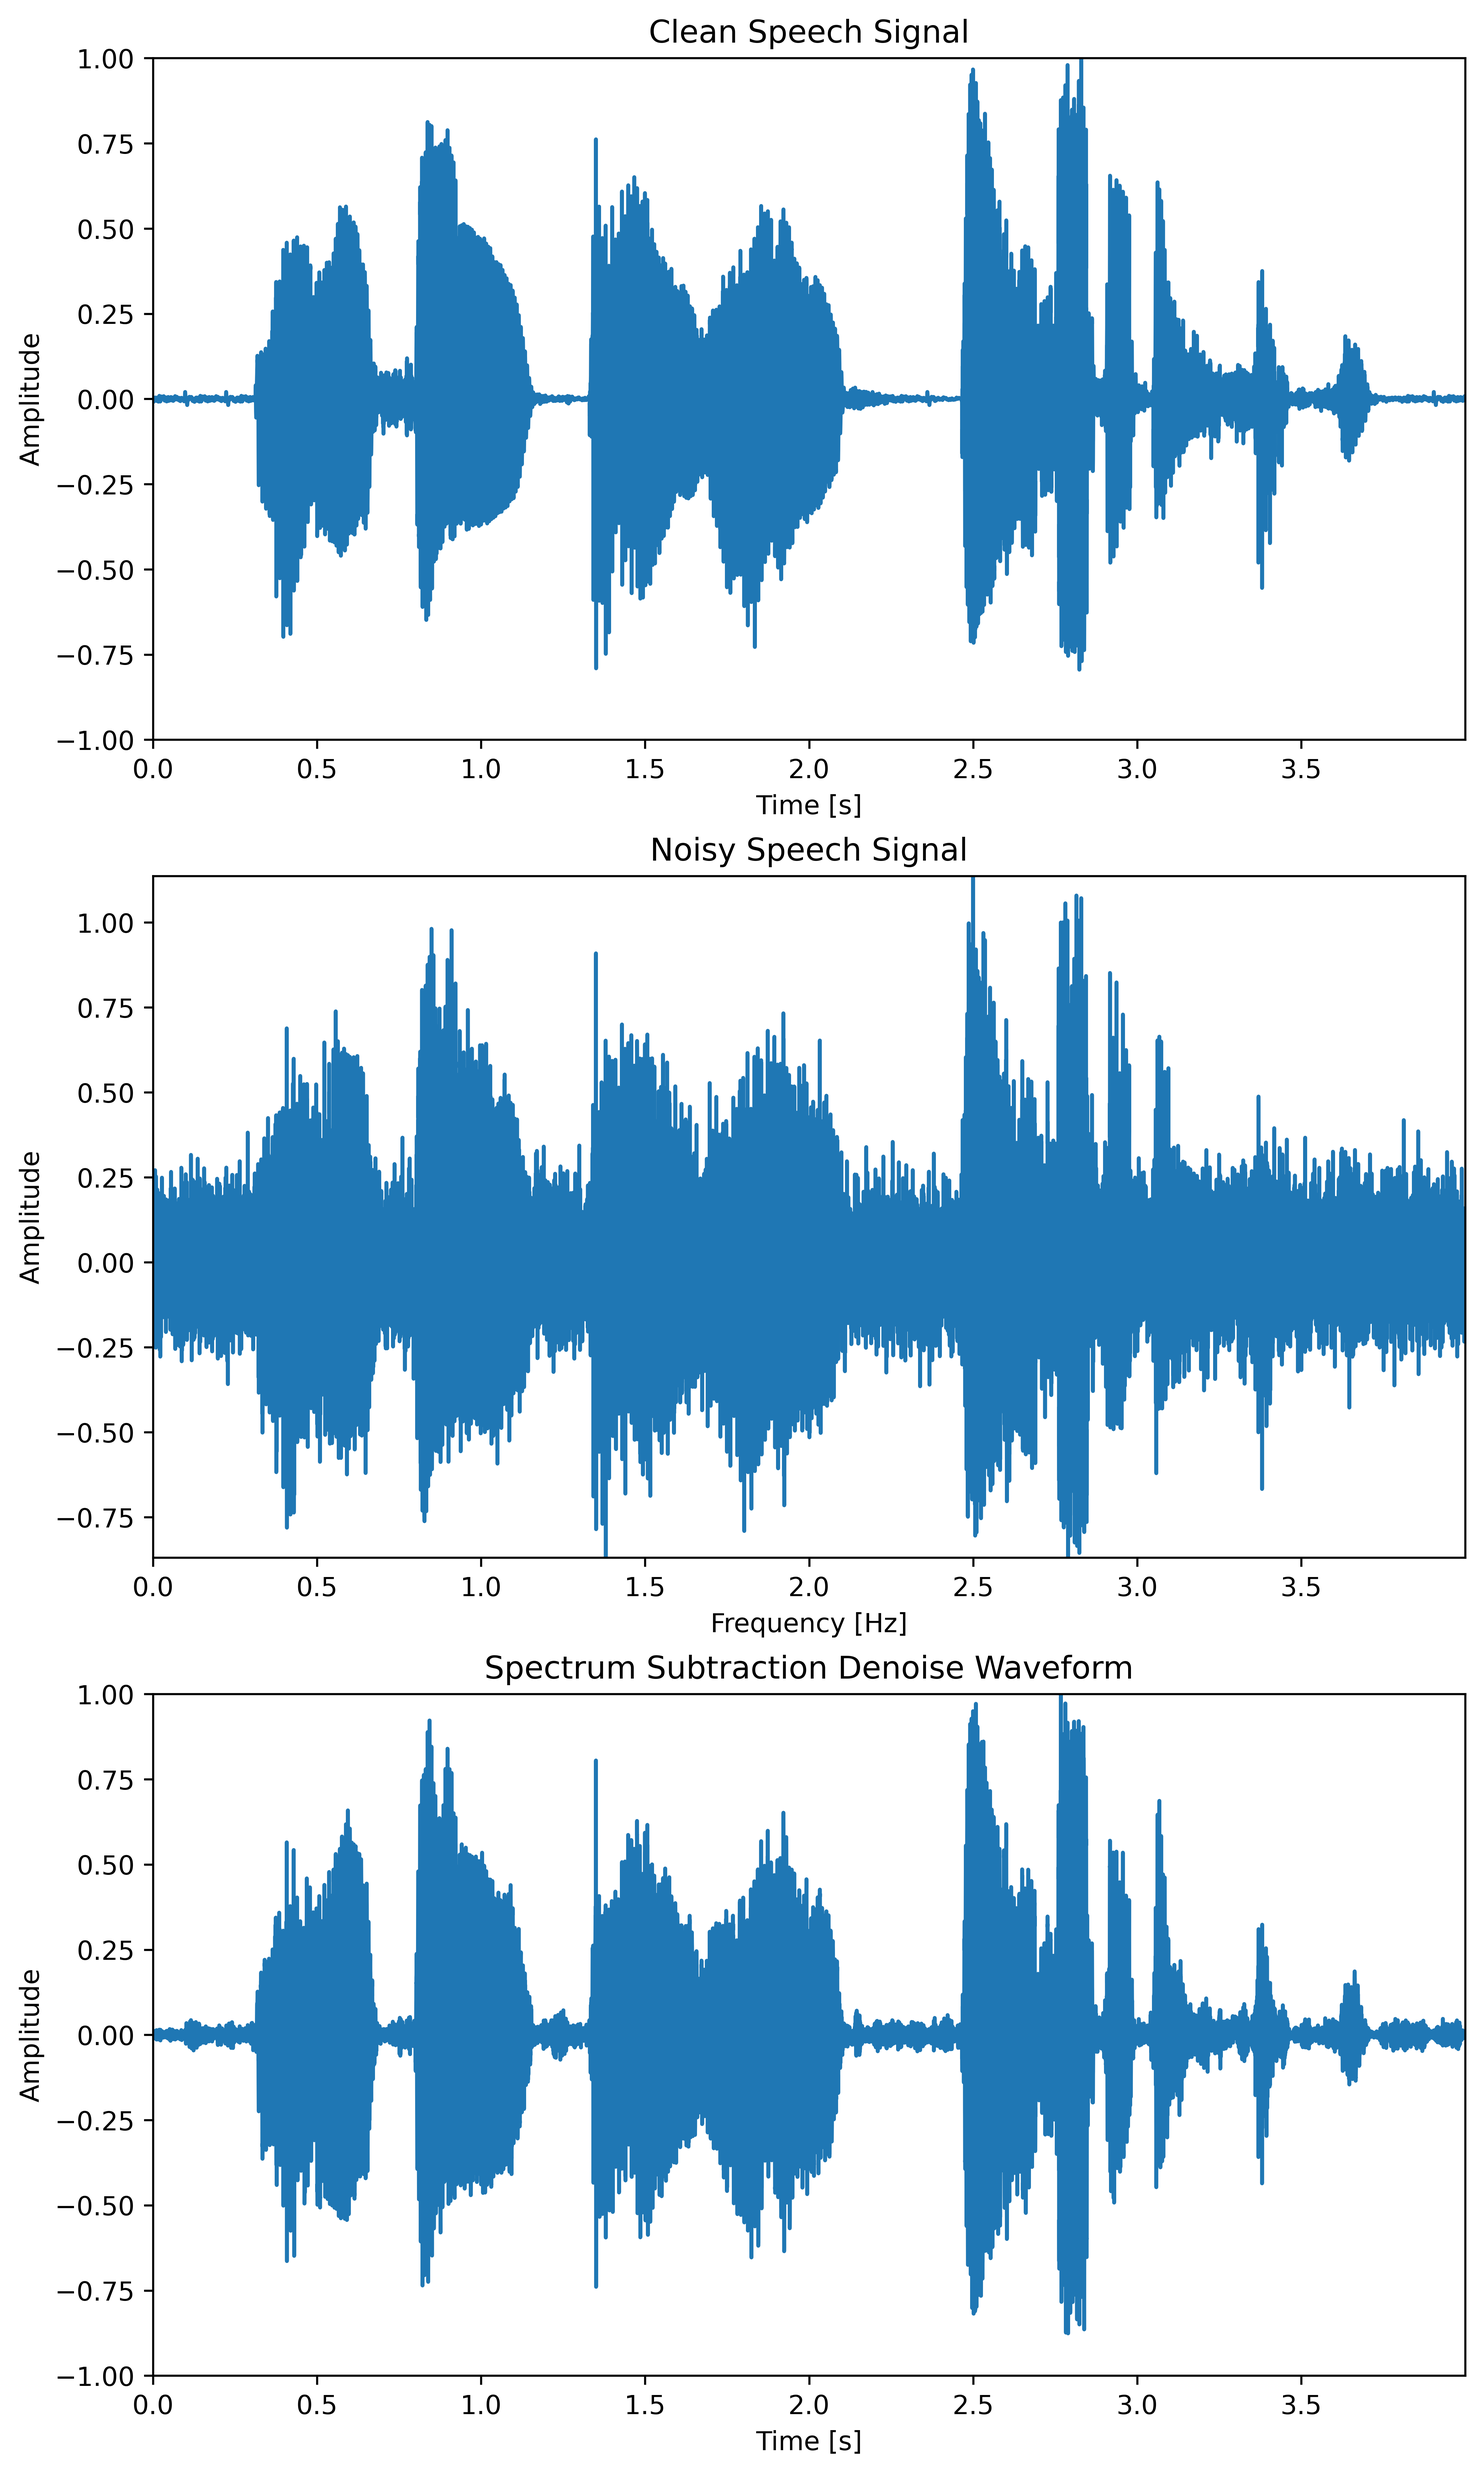
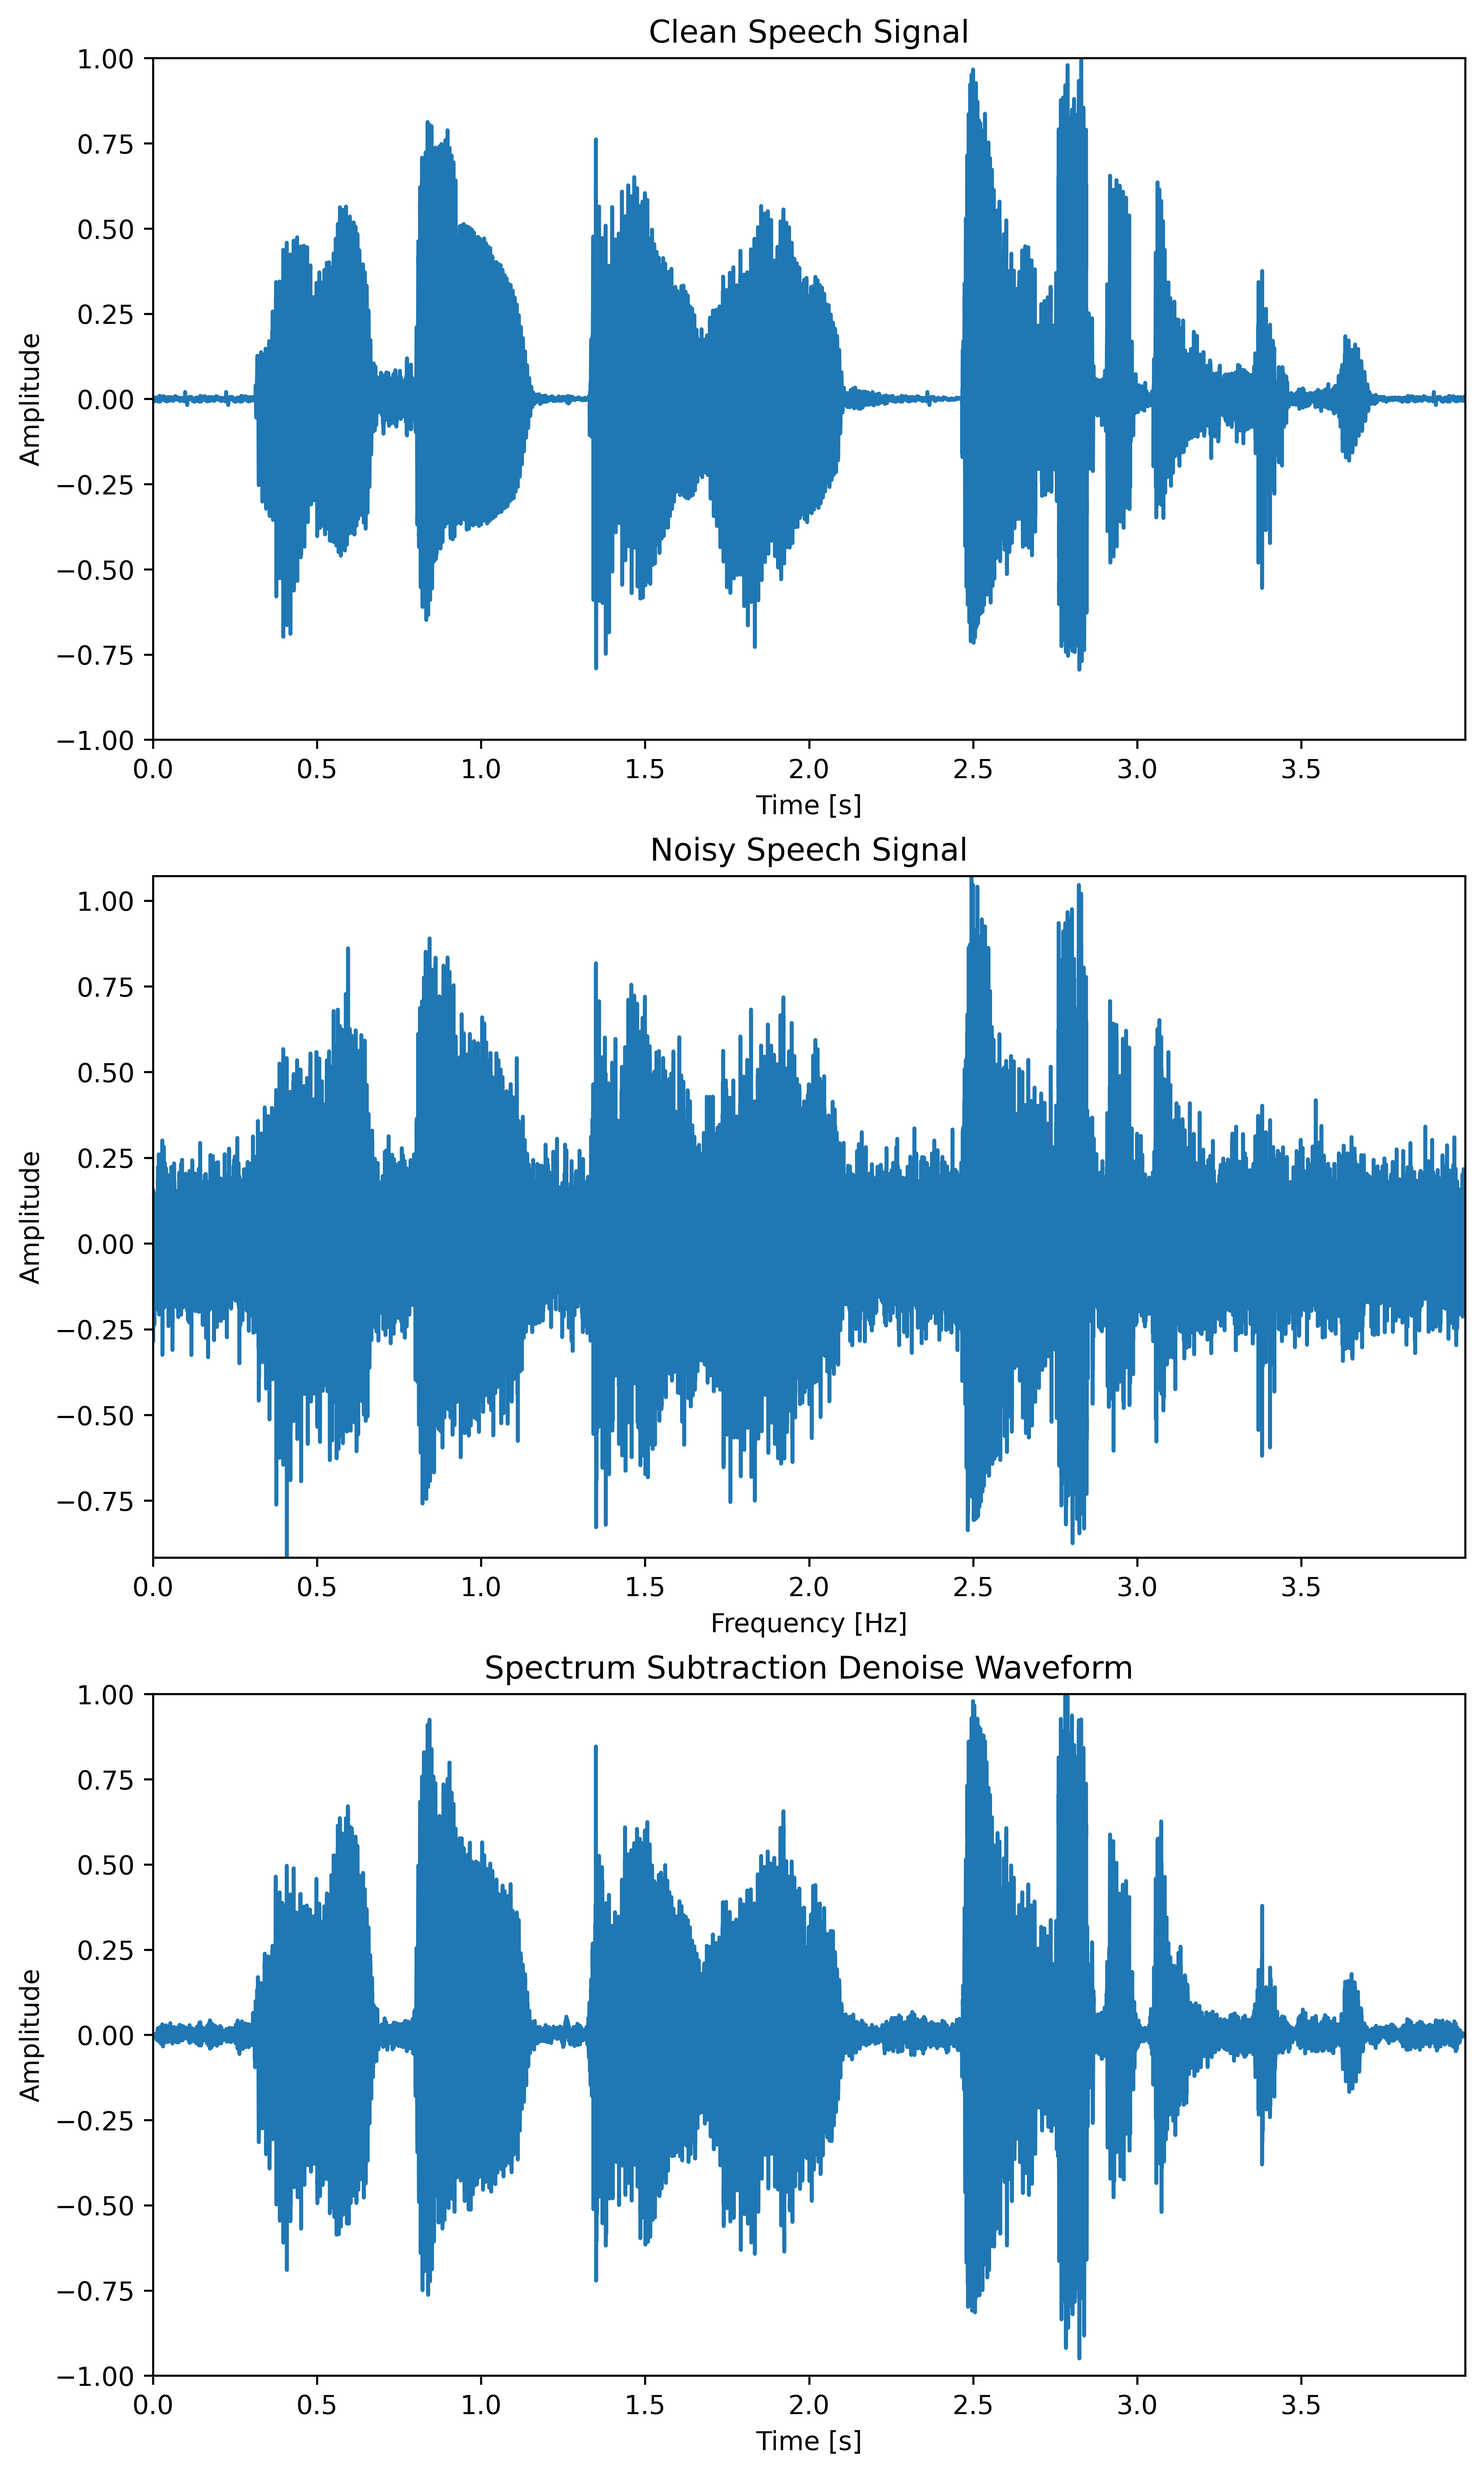
spectrum subtraction denoise

diff --git a/Chapter7_SpeechEnhancement/pr7_2_1.py b/Chapter7_SpeechEnhancement/pr7_2_1.py
@@ -1,58 +1,9 @@
 #
 # pr7_2_1
 
+from Enhancement import *
 from Noisy import *
-from Universal import *
 
-
-def simplesubspec(signal, wlen, inc, NIS, a, b):
-	"""
-	simple spectrum subtraction
-	:param signal: noisy speech
-	:param wlen: window length
-	:param inc: frame shift
-	:param NIS: leading noise segment length
-	:param a: over subtraction factor
-	:param b: gain factor
-	:return output: denoise speech
-	"""
-	wnd = np.hamming(wlen)              # window function
-	N = len(signal)                     # signal length
-	
-	y = speech.enframe(signal, list(wnd), inc).T        # enframe
-	fn = y.shape[1]                                     # frame number
-	
-	y_fft = np.fft.fft(y, axis=0)                       # FFT
-	y_a = np.abs(y_fft)                                 # amplitude
-	y_phase = np.angle(y_fft)                           # phase
-	y_a2 = y_a ** 2                                     # energy
-	Nt = np.mean(y_a2[:, 0 : NIS], 1)                   # average energy in noise segment
-	nl2 = int(wlen / 2) + 1                             # positvie frequency
-	
-	temp = np.zeros(nl2)                                # energy
-	U = np.zeros(nl2)                                   # one frame amplitude
-	X = np.zeros((nl2, fn))                             # amplitude
-	for i in range(fn):                                 # spectrum subtraction
-		for k in range(nl2):
-			if(y_a2[k, i] > a * Nt[k]):
-				temp[k] = y_a2[k, i] - a * Nt[k]
-			else:
-				temp[k] = b * y_a2[k,i]
-			U[k] = np.sqrt(temp[k])
-		X[:, i] = U
-	
-	output = speech.OverlapAdd2(X, y_phase[0:nl2, :], wlen, inc)        # synthesis
-	Nout = len(output)                                                  # spectrum subtraction length = original length?
-	
-	if Nout > N:
-		output = output[0 : N]
-	else:
-		output = np.concatenate([output, np.zeros(N - Nout)])
-		
-	output = output / np.max(np.abs(output))                            # normalization
-	
-	return output
-	
 if __name__ == '__main__':
 	# Set_I
 	IS = 0.25  # unvoice segemnt length
@@ -80,7 +31,8 @@ if __name__ == '__main__':
 	
 	a = 4
 	b = 0.001                   # parameter
-	output = simplesubspec(signal, wlen, inc, NIS, a, b)
+	enh = Enhancement()
+	output = enh.simplesubspec(signal, wlen, inc, NIS, a, b)
 	snr2 = noisy.SNR_singlech(x, output)
 	print('snr1 = {:.2f} dB \nsnr2 = {:.2f} dB'.format(snr1, snr2))
 	

diff --git a/Chapter7_SpeechEnhancement/Enhancement.py b/Chapter7_SpeechEnhancement/Enhancement.py
@@ -1,0 +1,54 @@
+#
+# Class Enhancement
+
+from Universal import *
+
+class Enhancement:
+	def simplesubspec(self, signal, wlen, inc, NIS, a, b):
+		"""
+		simple spectrum subtraction
+		:param signal: noisy speech
+		:param wlen: window length
+		:param inc: frame shift
+		:param NIS: leading noise segment length
+		:param a: over subtraction factor
+		:param b: gain factor
+		:return output: denoise speech
+		"""
+		wnd = np.hamming(wlen)  # window function
+		N = len(signal)  # signal length
+		
+		speech = Speech()
+		y = speech.enframe(signal, list(wnd), inc).T  # enframe
+		fn = y.shape[1]  # frame number
+		
+		y_fft = np.fft.fft(y, axis=0)  # FFT
+		y_a = np.abs(y_fft)  # amplitude
+		y_phase = np.angle(y_fft)  # phase
+		y_a2 = y_a ** 2  # energy
+		Nt = np.mean(y_a2[:, 0: NIS], 1)  # average energy in noise segment
+		nl2 = int(wlen / 2) + 1  # positvie frequency
+		
+		temp = np.zeros(nl2)  # energy
+		U = np.zeros(nl2)  # one frame amplitude
+		X = np.zeros((nl2, fn))  # amplitude
+		for i in range(fn):  # spectrum subtraction
+			for k in range(nl2):
+				if (y_a2[k, i] > a * Nt[k]):
+					temp[k] = y_a2[k, i] - a * Nt[k]
+				else:
+					temp[k] = b * y_a2[k, i]
+				U[k] = np.sqrt(temp[k])
+			X[:, i] = U
+		
+		output = speech.OverlapAdd2(X, y_phase[0:nl2, :], wlen, inc)  # synthesis
+		Nout = len(output)  # spectrum subtraction length = original length?
+		
+		if Nout > N:
+			output = output[0: N]
+		else:
+			output = np.concatenate([output, np.zeros(N - Nout)])
+		
+		output = output / np.max(np.abs(output))  # normalization
+		
+		return output

diff --git a/Chapter7_SpeechEnhancement/Universal.py b/Chapter7_SpeechEnhancement/Universal.py
@@ -130,7 +130,7 @@ class Speech:
         else:
             Spec = np.concatenate((Spec, np.flipud(np.conj(Spec[1:(len(Spec) - 1), :]))))  # negative frequency
     
-        sig = np.zeros((FrameNum - 1) * S + W)  # initialization
+        sig = np.zeros(int((FrameNum - 1) * S + W))  # initialization
         weight = sig
         for i in range(FrameNum):  # overlap
             start = i * S  # start sample point of ith frame
